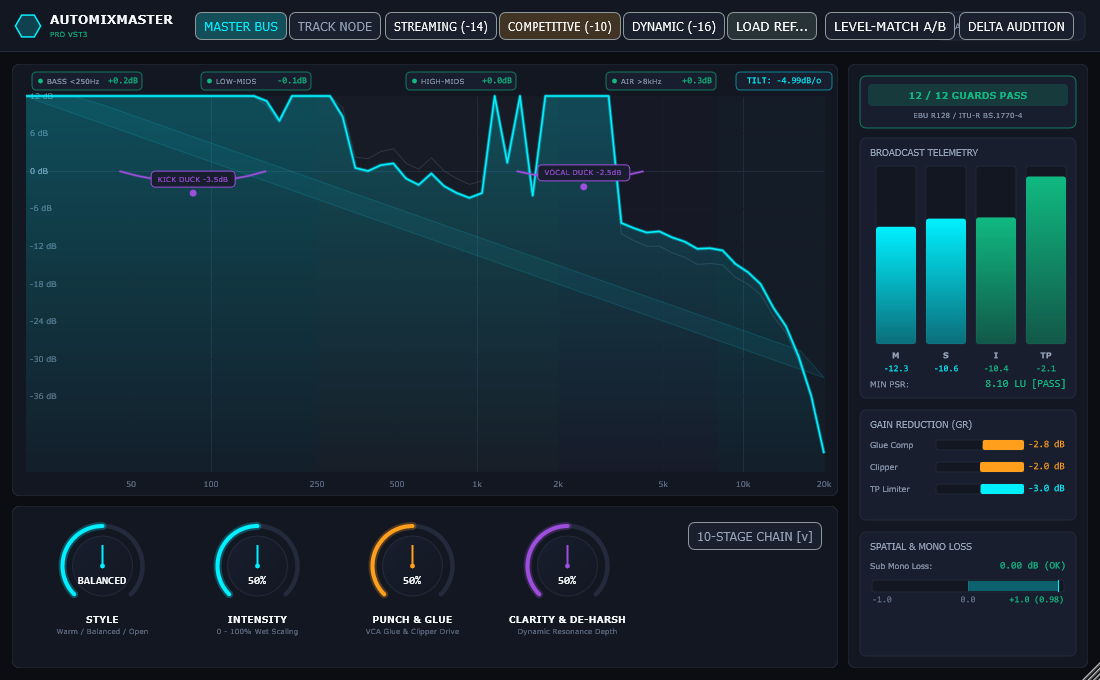
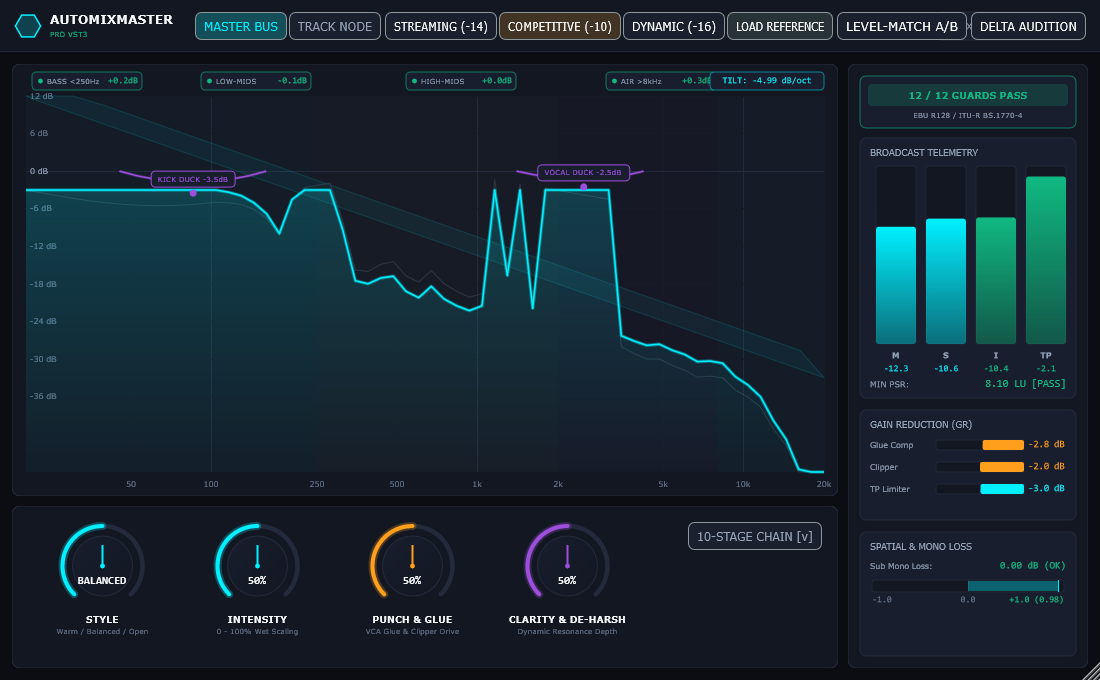
fix(gui): -18 dB visual display offset for tonal corridor alignment and widened badges

diff --git a/src/gui/SpectrumCanvasComponent.h b/src/gui/SpectrumCanvasComponent.h
@@ -147,12 +147,14 @@ public:
         g.strokePath(corridorPath, juce::PathStrokeType(1.0f, juce::PathStrokeType::curved));
 
         // 5. Pre-Processing Subtle Spectrum Curve
+        constexpr float kVisualDisplayOffsetDb = -18.0f;
+
         juce::Path prePath;
         bool preStarted = false;
         for (int i = 0; i < dsp::SpectralAnalyzer::kNumSpectrumBins; ++i) {
             const float f = 20.0f * std::pow(1000.0f, static_cast<float>(i) / (dsp::SpectralAnalyzer::kNumSpectrumBins - 1));
             const float x = freqToX(f);
-            const float y = dbToY(preBins[static_cast<size_t>(i)]);
+            const float y = dbToY(preBins[static_cast<size_t>(i)] + kVisualDisplayOffsetDb);
             if (!preStarted) {
                 prePath.startNewSubPath(x, y);
                 preStarted = true;
@@ -171,7 +173,7 @@ public:
         for (int i = 0; i < dsp::SpectralAnalyzer::kNumSpectrumBins; ++i) {
             const float f = 20.0f * std::pow(1000.0f, static_cast<float>(i) / (dsp::SpectralAnalyzer::kNumSpectrumBins - 1));
             const float x = freqToX(f);
-            const float y = dbToY(currentBins[static_cast<size_t>(i)]);
+            const float y = dbToY(currentBins[static_cast<size_t>(i)] + kVisualDisplayOffsetDb);
 
             if (!postStarted) {
                 postPath.startNewSubPath(x, y);
@@ -202,7 +204,7 @@ public:
         drawDynamicUnmaskingOverlay(g, freqToX, dbToY);
 
         // 8. Top 4-Band Compliance Status Badges
-        drawBandBadges(g, plotX, plotY);
+        drawBandBadges(g, plotX, plotY, plotW);
     }
 
 private:
@@ -262,7 +264,7 @@ private:
         g.drawText("VOCAL DUCK -" + juce::String(vocalDucking, 1) + "dB", vx - 46.0f, vyDip - 22.0f, 92.0f, 16.0f, juce::Justification::centred);
     }
 
-    void drawBandBadges(juce::Graphics& g, float plotX, float plotY) {
+    void drawBandBadges(juce::Graphics& g, float plotX, float plotY, float plotW) {
         // 4 Tonal balance corridor compliance badges
         const struct Badge {
             const char* name;
@@ -297,8 +299,9 @@ private:
                        badgeRect.getRight() - 34.0f, badgeRect.getY(), 30.0f, badgeRect.getHeight(), juce::Justification::centredRight);
         }
 
-        // Tilt readout badge on top right
-        const auto tiltRect = juce::Rectangle<float>(plotX + 710.0f, plotY - 24.0f, 96.0f, 18.0f);
+        // Tilt readout badge on top right (widened to accommodate "dB/oct")
+        const float tiltW = 114.0f;
+        const auto tiltRect = juce::Rectangle<float>(plotX + plotW - tiltW, plotY - 24.0f, tiltW, 18.0f);
         g.setColour(Palette::cardElevated());
         g.fillRoundedRectangle(tiltRect, 4.0f);
         g.setColour(Palette::cyan().withAlpha(0.5f));
@@ -306,7 +309,7 @@ private:
         g.setFont(Typography::code(9.0f));
         g.setColour(Palette::cyan());
         const float measuredTilt = latestSnap.spectralTiltSlope != 0.0f ? latestSnap.spectralTiltSlope : -4.58f;
-        g.drawText("TILT: " + juce::String(measuredTilt, 2) + "dB/o", tiltRect, juce::Justification::centred);
+        g.drawText("TILT: " + juce::String(measuredTilt, 2) + " dB/oct", tiltRect, juce::Justification::centred);
     }
 
     AutoMixMasterProcessor& processor;

diff --git a/src/gui/TopBarComponent.h b/src/gui/TopBarComponent.h
@@ -86,7 +86,7 @@ public:
         };
         addAndMakeVisible(presetDynamicBtn);
 
-        loadRefBtn.setButtonText("LOAD REF...");
+        loadRefBtn.setButtonText("LOAD REFERENCE");
         loadRefBtn.onClick = [this]() {
             loadReferenceFile();
         };
@@ -204,8 +204,8 @@ public:
         x += 124;
         presetDynamicBtn.setBounds(x, y, 102, 28);
         x += 104;
-        loadRefBtn.setBounds(x, y, 90, 28);
-        x += 98;
+        loadRefBtn.setBounds(x, y, 106, 28);
+        x += 110;
 
         // Monitoring
         levelMatchBtn.setBounds(x, y, 130, 28);
